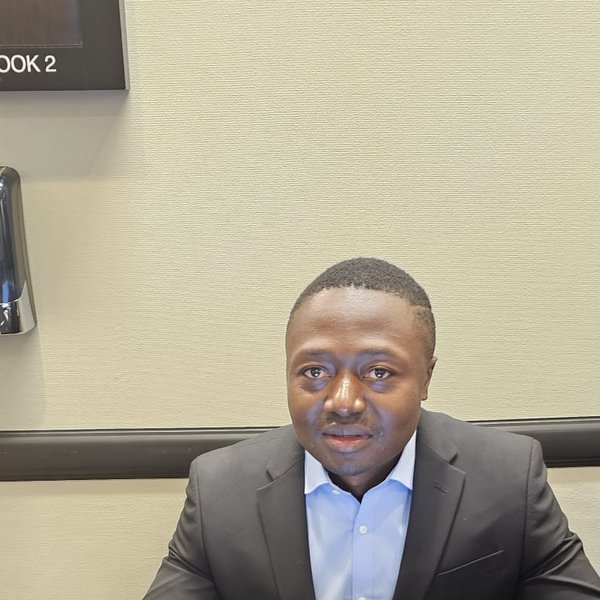
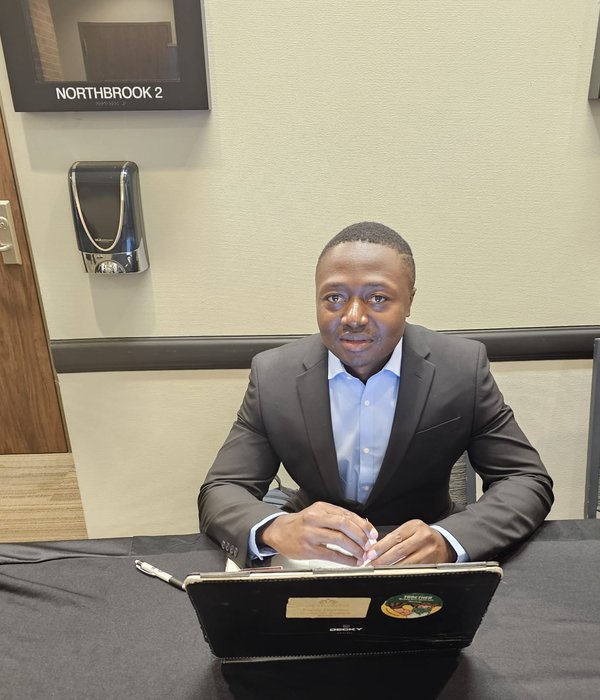
Re-crop Secretary Domleu photo to show head, body, and laptop

diff --git a/components/landing/LeadershipSection.tsx b/components/landing/LeadershipSection.tsx
@@ -5,7 +5,7 @@ import { useLanguage } from '@/lib/i18n/context'
 const leaders = [
   { initial: 'P', title: 'Community President', role: 'Mr. Ghislain Wassu' },
   { initial: 'VP', title: 'Vice President', role: 'Mr. Guy Kouam', image: '/images/vp-kouam.jpg', imagePosition: 'center 30%' },
-  { initial: 'S', title: 'Secretary General', role: 'Mr. Fredy Domleu', image: '/images/secretary-domleu.jpg', imagePosition: 'center 25%' },
+  { initial: 'S', title: 'Secretary General', role: 'Mr. Fredy Domleu', image: '/images/secretary-domleu.jpg', imagePosition: 'center 20%' },
   { initial: 'T', title: 'Treasurer', role: 'Mr Francis TEBANG TE BUH TAGNE TEBUWAH', image: '/images/treasurer-tebang.jpg' },
 ]
 
